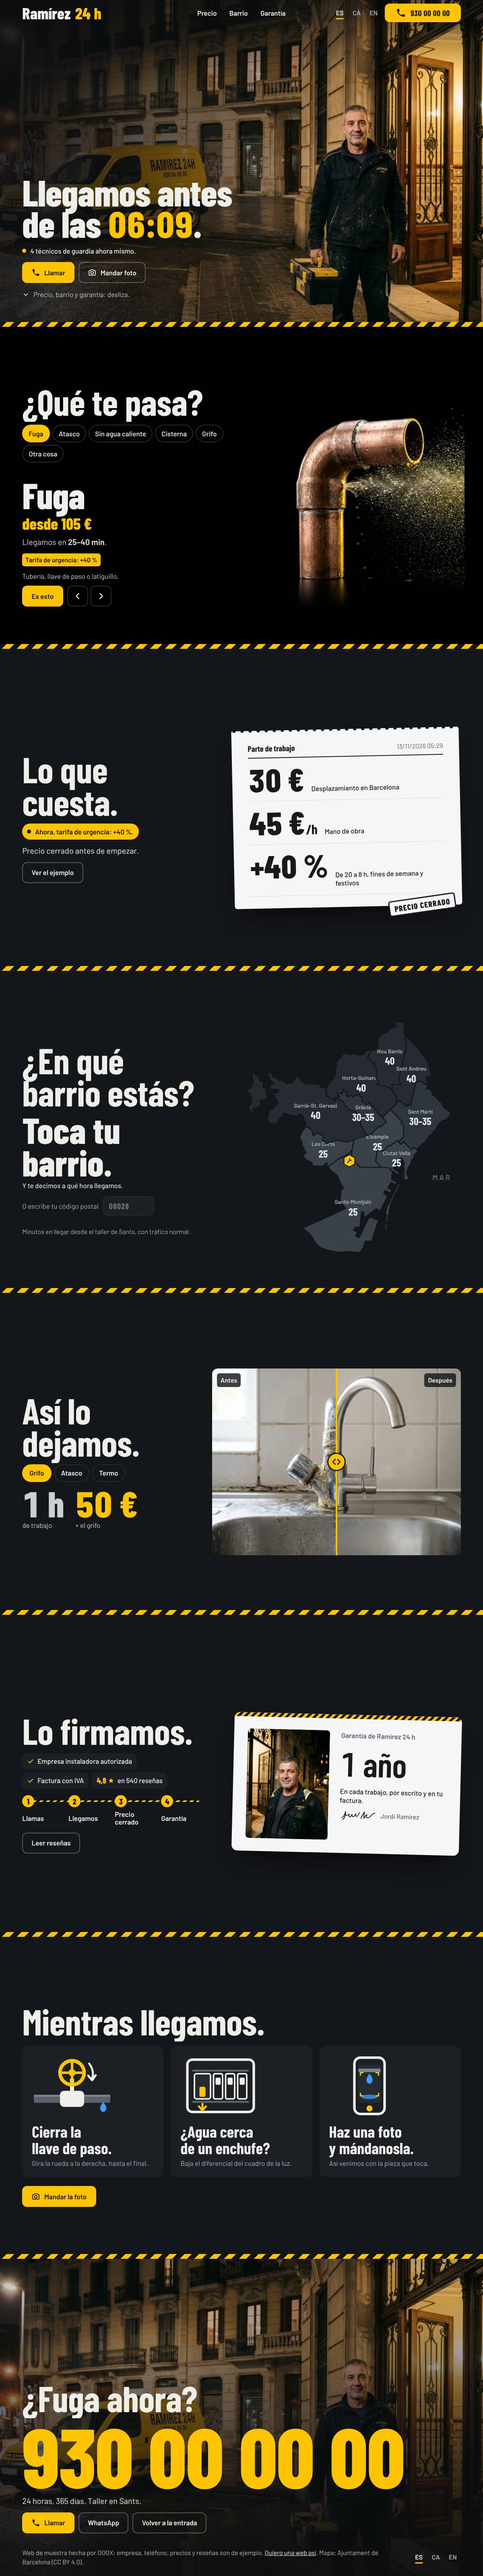
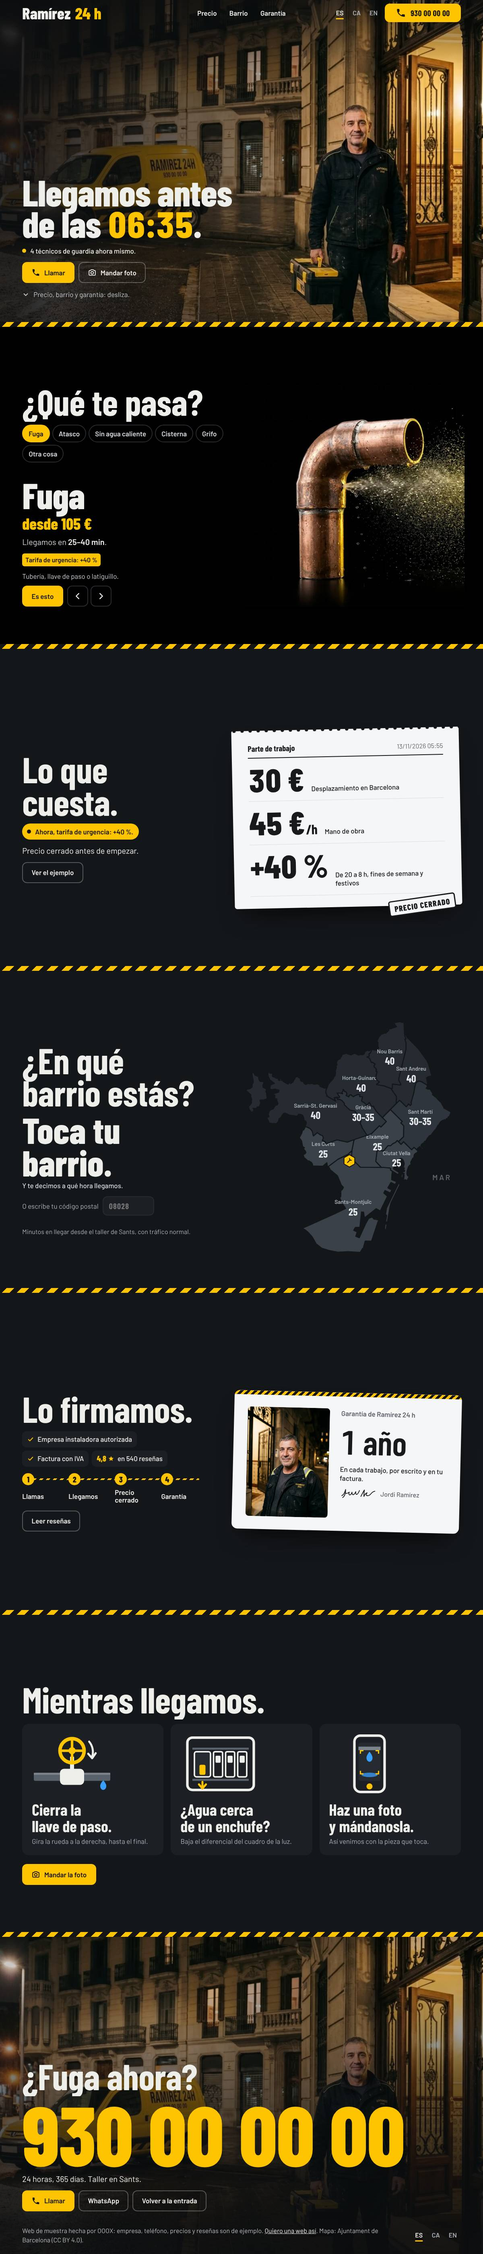
Ramírez 24 h: fuera la pantalla del antes y después
Un antes y después tan limpio no suele cumplirse en una avería real, así que
la pantalla «Así lo dejamos» sale de la demo (HTML, estilos, código,
traducciones e imágenes). Captura larga y ficha al día.

Claude-Session: https://claude.ai/code/session_01DChTJnCiCW4hs7btUNApc9

diff --git a/frontend/public/demos/ramirez-24h/index.html b/frontend/public/demos/ramirez-24h/index.html
@@ -219,31 +219,7 @@ html.snap{scroll-snap-type:y mandatory}
 @media (max-width:899px){.bag{grid-template-areas:"h" "m" "o";gap:10px}.bat{display:contents}.bat .h2{grid-area:h}.mapa-w{grid-area:m;width:min(86vw,40svh)}.bat-o{grid-area:o;display:grid;gap:10px}.leyenda{display:none}}
 @media (min-width:900px){.bag{grid-template-columns:minmax(0,.85fr) minmax(0,1fr);gap:5vw}.bat-o{display:grid;gap:14px}}
 
-/* ===== 4 · así lo dejamos: antes y después ===== */
-.trg{display:grid;grid-template-columns:minmax(0,1fr);gap:16px;align-items:center}
-.trt{display:grid;gap:14px;justify-items:start}
-.tabs{display:flex;gap:6px;flex-wrap:wrap}
-.tabs button{min-height:44px;padding:0 16px;border-radius:999px;border:2px solid var(--asfalto-3);font-weight:600;transition:border-color var(--t-ui) var(--ease-out),background-color var(--t-ui) var(--ease-out),color var(--t-ui) var(--ease-out)}
-.tabs button[aria-pressed="true"]{background:var(--senal);border-color:var(--senal);color:var(--negro)}
-.trfacts{display:flex;gap:28px;align-items:flex-end}
-.trfacts div{display:grid;gap:4px}
-.trfacts .fig{font-size:var(--s-h2)}
-.trfacts span{font-size:var(--s-body);color:#c9ced3}
-.trfacts div:last-child .fig{color:var(--senal)}
-.cmp{--pos:50%;position:relative;width:100%;aspect-ratio:4/3;border-radius:14px;overflow:hidden;touch-action:pan-y;-webkit-user-select:none;user-select:none;cursor:ew-resize;background:var(--asfalto-2)}
-.cmp img{position:absolute;inset:0;width:100%;height:100%;object-fit:cover;-webkit-user-drag:none}
-.cmp .ca{position:absolute;inset:0;clip-path:inset(0 0 0 var(--pos))}
-.cmp .cl{position:absolute;top:0;bottom:0;left:var(--pos);width:4px;margin-left:-2px;background:var(--senal);pointer-events:none}
-.cmp .cl i{position:absolute;top:50%;left:50%;width:46px;height:46px;margin:-23px 0 0 -23px;border-radius:50%;background:var(--senal);display:grid;place-items:center;border:3px solid var(--negro)}
-.cmp .cl svg{width:24px;height:24px;color:var(--negro)}
-.cmp .tag{position:absolute;top:12px;padding:5px 9px;border-radius:6px;background:rgba(20,23,26,.82);font-size:var(--s-small);font-weight:600;pointer-events:none}
-.cmp .tag.a{left:12px}.cmp .tag.b{right:12px}
-.cmp input{position:absolute;inset:0;width:100%;height:100%;opacity:0;margin:0;pointer-events:none}
-.cmp:has(input:focus-visible){outline:3px solid var(--senal);outline-offset:3px}
-@media (min-width:900px){.trg{grid-template-columns:minmax(0,.8fr) minmax(0,1.2fr);gap:5vw}}
-@media (max-width:899px){.cmp{max-height:36svh;aspect-ratio:auto;height:min(75vw,36svh)}}
-
-/* ===== 5 · de fiar: la tarjeta de garantía ===== */
+/* ===== 4 · de fiar: la tarjeta de garantía ===== */
 .gag{display:grid;grid-template-columns:minmax(0,1fr);gap:20px;align-items:center}
 .gat{display:grid;gap:16px;justify-items:start}
 .gcard{position:relative;justify-self:center;display:grid;grid-template-columns:auto minmax(0,1fr);gap:16px;width:100%;max-width:560px;padding:26px 20px 20px;border-radius:14px;background:var(--papel);color:var(--tinta);overflow:hidden;box-shadow:0 34px 60px -26px rgba(0,0,0,.8);transform:rotate(1.4deg)} /* taste-skill-ignore: sombra de una tarjeta sobre el asfalto */
@@ -268,7 +244,7 @@ html.snap{scroll-snap-type:y mandatory}
 @media (max-width:899px){.gag{grid-template-areas:"h" "c" "p" "s" "b";gap:14px}.gat{display:contents}.gat .h2{grid-area:h}.gcard{grid-area:c}.prueba{grid-area:p}.pasos{grid-area:s}#verRes{grid-area:b;justify-self:start}}
 @media (max-height:700px) and (max-width:899px){.prueba li:nth-child(2){display:none}.gat .h2{font-size:2.4rem}}
 
-/* ===== 6 · mientras llegamos: tres dibujos ===== */
+/* ===== 5 · mientras llegamos: tres dibujos ===== */
 .mig{display:grid;gap:22px}
 .mis{display:grid;grid-template-columns:minmax(0,1fr);gap:12px}
 .mis li{display:grid;grid-template-columns:112px minmax(0,1fr);align-items:center;gap:16px;padding:12px;border-radius:16px;background:var(--asfalto-2)}
@@ -459,25 +435,6 @@ html.snap{scroll-snap-type:y mandatory}
     </div>
   </section>
 
-  <section class="sx" id="trabajos" aria-labelledby="trT">
-    <div class="in trg">
-      <div class="trt">
-        <h2 class="h2" id="trT" data-t="tr.t">Así lo dejamos.</h2>
-        <div class="tabs" id="tabs" role="group" aria-label="Trabajos" data-ta="aria-label:a.trabajos">
-          <button data-tr="grifo" aria-pressed="true" data-t="tr.grifo">Grifo</button><button data-tr="atasco" aria-pressed="false" data-t="tr.atasco">Atasco</button><button data-tr="termo" aria-pressed="false" data-t="tr.termo">Termo</button>
-        </div>
-        <div class="trfacts"><div><span class="fig" id="trH">1 h</span><span data-t="tr.trabajo">de trabajo</span></div><div><span class="fig" id="trP">50 €</span><span id="trPs">+ el grifo</span></div></div>
-      </div>
-      <div class="cmp" id="cmp">
-        <img id="trA" src="assets/img/tr-grifo-antes.webp" srcset="assets/img/tr-grifo-antes-s.webp 720w,assets/img/tr-grifo-antes.webp 1200w" sizes="(min-width:900px) 52vw,92vw" alt="Antes: un grifo viejo y oxidado" width="1200" height="896">
-        <div class="ca"><img id="trD" src="assets/img/tr-grifo-despues.webp" srcset="assets/img/tr-grifo-despues-s.webp 720w,assets/img/tr-grifo-despues.webp 1200w" sizes="(min-width:900px) 52vw,92vw" alt="Después: el grifo nuevo, monomando" width="1200" height="896"></div>
-        <span class="tag a" data-t="tr.antes">Antes</span><span class="tag b" data-t="tr.despues">Después</span>
-        <div class="cl"><i><svg viewBox="0 0 24 24" fill="none" stroke="currentColor" stroke-width="2.6" stroke-linecap="round" stroke-linejoin="round" aria-hidden="true"><path d="M9 6l-6 6 6 6M15 6l6 6-6 6"/></svg></i></div>
-        <input type="range" id="cmpR" min="0" max="100" value="50" aria-label="Arrastra para comparar antes y después" data-ta="aria-label:a.cmp">
-      </div>
-    </div>
-  </section>
-
   <section class="sx" id="garantia" aria-labelledby="gaT">
     <div class="in gag">
       <div class="gat">
@@ -615,7 +572,7 @@ html.snap{scroll-snap-type:y mandatory}
 <script type="application/json" id="i18n">
 {
  "ca":{
-  "a.home":"Ramírez 24 h: tornar a l’entrada","a.nav":"Seccions","a.lang":"Idioma","a.menu":"Obrir el menú","a.menuT":"Menú","a.track":"Entrada: la furgoneta arriba al teu portal","a.averias":"Avaries","a.prev":"Avaria anterior","a.next":"Avaria següent","a.trabajos":"Feines","a.cmp":"Arrossega per comparar abans i després","a.bar":"Trucar o escriure","a.cerrar":"Tancar","a.s5":"5 de 5","a.s4":"4 de 5","a.mapa":"Mapa dels districtes de Barcelona",
+  "a.home":"Ramírez 24 h: tornar a l’entrada","a.nav":"Seccions","a.lang":"Idioma","a.menu":"Obrir el menú","a.menuT":"Menú","a.track":"Entrada: la furgoneta arriba al teu portal","a.averias":"Avaries","a.prev":"Avaria anterior","a.next":"Avaria següent","a.bar":"Trucar o escriure","a.cerrar":"Tancar","a.s5":"5 de 5","a.s4":"4 de 5","a.mapa":"Mapa dels districtes de Barcelona",
   "nav.precio":"Preu","nav.barrio":"Barri","nav.garantia":"Garantia","nav.averias":"Avaries",
   "b.llamar":"Trucar","b.foto":"Enviar foto","bar.llamar":"Trucar ara","bar.foto":"Foto",
   "in.t":"Lampistes 24 hores.","in.l":"Fuites, embussos i avaries a Barcelona. Arribem en 25–40 minuts.","in.h":"Llisca i mira a quina hora arribem.",
@@ -627,9 +584,6 @@ html.snap{scroll-snap-type:y mandatory}
   "p.t":"Part de treball","p.r1":"Desplaçament a Barcelona","p.r2":"Mà d’obra","p.r3":"De 20 a 8 h, caps de setmana i festius","p.sello":"Preu tancat",
   "ej.t":"Una fuita d’1 h 30 min, un dimarts","ej.r1":"Desplaçament","ej.r2":"Mà d’obra, 1 h 30 min","ej.tot":"Total","ej.dom":"La mateixa feina un diumenge: {p}.",
   "ba.t":"A quin barri ets?","ba.toca":"Toca el teu barri.","ba.toca2":"I et diem a quina hora arribem.","ba.r":"{b}: <b>{m}</b>.","ba.eta":"Si truques ara, arribem abans de les {t}.","ba.cp":"O escriu el teu codi postal","ba.no":"Aquest codi no és de Barcelona. Truca’ns: també anem a L’Hospitalet, Esplugues i Sant Adrià.","ba.ley":"Minuts per arribar des del taller de Sants, amb trànsit normal.","ba.taller":"Taller","ba.mar":"MAR",
-  "tr.t":"Així ho deixem.","tr.grifo":"Aixeta","tr.atasco":"Embús","tr.termo":"Termo","tr.trabajo":"de feina","tr.antes":"Abans","tr.despues":"Després",
-  "tr.grifo.p":"+ l’aixeta","tr.atasco.p":"preu tancat","tr.termo.p":"amb termo nou de 80 l",
-  "tr.grifo.a":"Abans: una aixeta vella i rovellada","tr.grifo.d":"Després: l’aixeta nova, monocomandament","tr.atasco.a":"Abans: un lavabo embussat, ple d’aigua","tr.atasco.d":"Després: el lavabo net i desembussat","tr.termo.a":"Abans: un termo vell i rovellat","tr.termo.d":"Després: un termo nou amb la instal·lació nova",
   "ga.t":"Ho signem.","ga.d1":"Empresa instal·ladora autoritzada","ga.d2":"Factura amb IVA","ga.d3":"en 540 ressenyes","ga.p1":"Truques","ga.p2":"Arribem","ga.p3":"Preu tancat","ga.p4":"Garantia","ga.res":"Llegir ressenyes",
   "ga.k":"Garantia de Ramírez 24 h","ga.big":"1 any","ga.s":"A cada feina, per escrit i a la teva factura.","ga.firma":"Jordi Ramírez","ga.alt":"Jordi Ramírez, el fundador, a la porta d’un portal",
   "mi.t":"Mentre arribem.","mi.1":"Tanca la clau de pas.","mi.1s":"Gira la roda cap a la dreta, fins al final.","mi.2":"Aigua a prop d’un endoll?","mi.2s":"Abaixa el diferencial del quadre de la llum.","mi.3":"Fes una foto i envia-la’ns.","mi.3s":"Així venim amb la peça que toca.","mi.btn":"Enviar la foto",
@@ -642,7 +596,7 @@ html.snap{scroll-snap-type:y mandatory}
   "min":"min"
  },
  "en":{
-  "a.home":"Ramírez 24 h: back to the start","a.nav":"Sections","a.lang":"Language","a.menu":"Open the menu","a.menuT":"Menu","a.track":"Intro: the van pulls up at your door","a.averias":"Problems","a.prev":"Previous problem","a.next":"Next problem","a.trabajos":"Jobs","a.cmp":"Drag to compare before and after","a.bar":"Call or message","a.cerrar":"Close","a.s5":"5 out of 5","a.s4":"4 out of 5","a.mapa":"Map of Barcelona’s districts",
+  "a.home":"Ramírez 24 h: back to the start","a.nav":"Sections","a.lang":"Language","a.menu":"Open the menu","a.menuT":"Menu","a.track":"Intro: the van pulls up at your door","a.averias":"Problems","a.prev":"Previous problem","a.next":"Next problem","a.bar":"Call or message","a.cerrar":"Close","a.s5":"5 out of 5","a.s4":"4 out of 5","a.mapa":"Map of Barcelona’s districts",
   "nav.precio":"Prices","nav.barrio":"Area","nav.garantia":"Guarantee","nav.averias":"Problems",
   "b.llamar":"Call","b.foto":"Send a photo","bar.llamar":"Call now","bar.foto":"Photo",
   "in.t":"24-hour plumbers.","in.l":"Leaks, blockages and breakdowns in Barcelona. We get there in 25–40 minutes.","in.h":"Swipe and see when we’ll arrive.",
@@ -654,9 +608,6 @@ html.snap{scroll-snap-type:y mandatory}
   "p.t":"Job sheet","p.r1":"Call-out within Barcelona","p.r2":"Labour","p.r3":"8 pm to 8 am, weekends and public holidays","p.sello":"Fixed price",
   "ej.t":"A 1 h 30 min leak, on a Tuesday","ej.r1":"Call-out","ej.r2":"Labour, 1 h 30 min","ej.tot":"Total","ej.dom":"The same job on a Sunday: {p}.",
   "ba.t":"Which area are you in?","ba.toca":"Tap your area.","ba.toca2":"We’ll tell you when we’ll arrive.","ba.r":"{b}: <b>{m}</b>.","ba.eta":"Call now and we’ll be there by {t}.","ba.cp":"Or type your postcode","ba.no":"That postcode isn’t in Barcelona. Call us: we also cover L’Hospitalet, Esplugues and Sant Adrià.","ba.ley":"Minutes to reach you from our Sants workshop, in normal traffic.","ba.taller":"Workshop","ba.mar":"SEA",
-  "tr.t":"How we leave it.","tr.grifo":"Tap","tr.atasco":"Blockage","tr.termo":"Water heater","tr.trabajo":"of work","tr.antes":"Before","tr.despues":"After",
-  "tr.grifo.p":"+ the tap","tr.atasco.p":"fixed price","tr.termo.p":"with a new 80 l heater",
-  "tr.grifo.a":"Before: an old, rusty tap","tr.grifo.d":"After: the new mixer tap","tr.atasco.a":"Before: a blocked basin full of water","tr.atasco.d":"After: the basin clean and draining","tr.termo.a":"Before: an old, rusty water heater","tr.termo.d":"After: a new water heater with new pipework",
   "ga.t":"We put it in writing.","ga.d1":"Licensed plumbing company","ga.d2":"VAT invoice","ga.d3":"from 540 reviews","ga.p1":"You call","ga.p2":"We arrive","ga.p3":"Fixed price","ga.p4":"Guarantee","ga.res":"Read reviews",
   "ga.k":"Ramírez 24 h guarantee","ga.big":"1 year","ga.s":"On every job, in writing, on your invoice.","ga.firma":"Jordi Ramírez","ga.alt":"Jordi Ramírez, the founder, at the door of an apartment building",
   "mi.t":"Until we get there.","mi.1":"Turn off the stopcock.","mi.1s":"Turn the wheel clockwise, all the way.","mi.2":"Water near a socket?","mi.2s":"Switch off the main breaker in the fuse box.","mi.3":"Take a photo and send it.","mi.3s":"So we bring the right part.","mi.btn":"Send the photo",
@@ -674,8 +625,6 @@ html.snap{scroll-snap-type:y mandatory}
   "av.fuga.l":"Tubería, llave de paso o latiguillo.","av.atasco.l":"Fregadero, váter, ducha o bajante.","av.termo.l":"Termo eléctrico o calentador.","av.cisterna.l":"No para de correr el agua o no carga.","av.grifo.l":"Gotea, pierde o hay que cambiarlo.","av.otra.l":"Cuéntanoslo y te damos el precio al momento.",
   "cu.n":"Ahora, tarifa normal.","cu.u":"Ahora, tarifa de urgencia: +40 %.","cu.ej2":"Ocultar el ejemplo","ej.dom":"El mismo trabajo un domingo: {p}.",
   "ba.toca":"Toca tu barrio.","ba.toca2":"Y te decimos a qué hora llegamos.","ba.r":"{b}: <b>{m}</b>.","ba.eta":"Si llamas ahora, llegamos antes de las {t}.","ba.no":"Ese código no es de Barcelona. Llámanos: también vamos a L’Hospitalet, Esplugues y Sant Adrià.","ba.taller":"Taller","ba.mar":"MAR","a.mapa":"Mapa de los distritos de Barcelona",
-  "tr.grifo.p":"+ el grifo","tr.atasco.p":"precio cerrado","tr.termo.p":"con termo nuevo de 80 l",
-  "tr.grifo.a":"Antes: un grifo viejo y oxidado","tr.grifo.d":"Después: el grifo nuevo, monomando","tr.atasco.a":"Antes: un lavabo atascado, lleno de agua","tr.atasco.d":"Después: el lavabo limpio y desatascado","tr.termo.a":"Antes: un termo viejo y oxidado","tr.termo.d":"Después: un termo nuevo con la instalación nueva",
   "mi.1":"Cierra la llave de paso.","mi.1s":"Gira la rueda a la derecha, hasta el final.","mi.2":"¿Agua cerca de un enchufe?","mi.2s":"Baja el diferencial del cuadro de la luz.","mi.3":"Haz una foto y mándanosla.","mi.3s":"Así venimos con la pieza que toca.",
   "d.alt.n":"De noche, en fin de semana o festivo: {p}.","d.alt.u":"En horario normal, de lunes a viernes de 8 a 20 h: {p}.","d.t":"{a}, ahora.","d.n":"Tarifa normal.","d.u":"Tarifa de urgencia: +40 % en desplazamiento y mano de obra.",
   "wa.full":"{a} en {b}, ahora. Os mando foto.","wa.av":"{a}, ahora. Os mando foto.","wa.b":"Avería en {b}, ahora. Os mando foto.","wa.none":"Tengo una avería, ahora. Os mando foto.",
@@ -756,7 +705,7 @@ const CP={'08001':'cve','08002':'cve','08003':'cve','08039':'cve','08007':'eix',
 const minTxt=b=>b==='b'?'30–35 min':BANDA[b]+' min';
 
 /* ===== estado: la avería y el barrio que has tocado ===== */
-const S={av:AV.some(a=>a.id===store.get('av'))?store.get('av'):'fuga',d:DIS[store.get('d')]?store.get('d'):null,tr:'grifo',av0:!!store.get('av')};
+const S={av:AV.some(a=>a.id===store.get('av'))?store.get('av'):'fuga',d:DIS[store.get('d')]?store.get('d'):null,av0:!!store.get('av')};
 const etaMin=()=>S.d?BANDA[DIS[S.d][1]]:40;
 
 /* ===== WhatsApp y llamada: en la demo, una vista previa en vez de un número inventado ===== */
@@ -826,22 +775,6 @@ $('#mapaW').addEventListener('click',e=>{const g=e.target.closest('.d');if(g)eli
 $('#mapaW').addEventListener('keydown',e=>{const g=e.target.closest('.d');if(g&&(e.key==='Enter'||e.key===' ')){e.preventDefault();elige(g.dataset.id)}});
 $('#cp').addEventListener('input',()=>{const i=$('#cp'),v=i.value.replace(/\D/g,'').slice(0,5);if(i.value!==v)i.value=v;
  if(v.length<5){$('#cpMsg').textContent='';return}const id=CP[v];if(id){elige(id,'cp');$('#cpMsg').textContent='';i.blur()}else $('#cpMsg').textContent=t('ba.no')});
-/* --- así lo dejamos --- */
-const TR={grifo:{h:'1 h',p:50},atasco:{h:'40 min',p:65},termo:{h:'2 h',p:390}};
-function pintaTr(){const k=S.tr,d=TR[k];$$('#tabs button').forEach(b=>b.setAttribute('aria-pressed',String(b.dataset.tr===k)));
- $('#trH').textContent=d.h;$('#trP').textContent=eur(d.p);$('#trPs').textContent=t('tr.'+k+'.p');
- const a=$('#trA'),b=$('#trD');if(a.dataset.k!==k){a.dataset.k=k;a.src=`assets/img/tr-${k}-antes.webp`;a.srcset=`assets/img/tr-${k}-antes-s.webp 720w,assets/img/tr-${k}-antes.webp 1200w`;b.src=`assets/img/tr-${k}-despues.webp`;b.srcset=`assets/img/tr-${k}-despues-s.webp 720w,assets/img/tr-${k}-despues.webp 1200w`}
- a.alt=t('tr.'+k+'.a');b.alt=t('tr.'+k+'.d')}
-$('#tabs').addEventListener('click',e=>{const b=e.target.closest('button');if(!b||b.dataset.tr===S.tr)return;S.tr=b.dataset.tr;pintaTr();setPos(50,true)});
-const cmp=$('#cmp'),cmpR=$('#cmpR');let pos=50;
-function setPos(v,anim){pos=Math.max(0,Math.min(100,v));cmpR.value=Math.round(pos);if(anim&&!RM)gsap.to(cmp,{'--pos':pos+'%',duration:.5,ease:'expo.out'});else cmp.style.setProperty('--pos',pos+'%')}
-cmpR.addEventListener('input',()=>setPos(+cmpR.value));
-{let drag=null;cmp.addEventListener('pointerdown',e=>{drag={x:e.clientX,y:e.clientY,on:e.pointerType==='mouse'};if(drag.on){cmp.setPointerCapture(e.pointerId);mueve(e)}});
- cmp.addEventListener('pointermove',e=>{if(!drag)return;if(!drag.on){const dx=Math.abs(e.clientX-drag.x),dy=Math.abs(e.clientY-drag.y);if(dx>8&&dx>dy){drag.on=true;cmp.setPointerCapture(e.pointerId)}else if(dy>8){drag=null;return}}if(drag.on)mueve(e)});
- const fin=()=>{drag=null};cmp.addEventListener('pointerup',fin);cmp.addEventListener('pointercancel',fin);
- function mueve(e){const r=cmp.getBoundingClientRect();setPos((e.clientX-r.left)/r.width*100)}}
-/* a la primera visita, la línea enseña que se mueve */
-let cmpHint=false;
 
 /* ===== entrada: el vídeo avanza con un gesto y se para en el portal ===== */
 const v=$('#v'),intro=$('#intro'),index=$('#index'),scrimB=$('#scrimB');let dur=5,target=0,cur=0,ready=false,auto=0,autoT=0,preTw=null;
@@ -877,7 +810,7 @@ function llega(){preTw=null;auto=0;v.pause();target=cur=1;scrollTo(0,tmax());gli
 function salir(){if(gliding||auto||scrollY<4)return;glide(0,1.5)}
 
 /* ===== pila: la pantalla que llega pasa por encima; la de atrás casi no se mueve, encoge y se oscurece ===== */
-const SECS=['averias','cuesta','barrio','trabajos','garantia','mientras','fin'];
+const SECS=['averias','cuesta','barrio','garantia','mientras','fin'];
 const topOf=el=>{let y=0;for(let e=el;e;e=e.offsetParent)y+=e.offsetTop;return y};
 let PILA=null,pY=-1,pH=0;
 function pila(){if(SHOT)return;if(!PILA){PILA=[$('.stage'),...SECS.map(id=>document.getElementById(id))];
@@ -934,7 +867,7 @@ function raya(){const a=curSec&&TL.querySelector(`a[data-go="${curSec}"]`);if(!a
  TIND.style.transform=`translateX(${a.offsetLeft}px) scaleX(${(a.offsetWidth/100).toFixed(3)})`;TIND.style.opacity='1'}
 addEventListener('resize',raya);langFns.push(raya);
 function spy(){let on=null,hd='track';SECS.forEach(id=>{const y=document.getElementById(id).getBoundingClientRect().top;if(y<innerHeight*.45)on=id;if(y<=34)hd=id});
- if(on!==curSec){curSec=on;$$('.tlinks a').forEach(a=>a.classList.toggle('on',a.dataset.go===on));raya();if(on==='trabajos'&&!cmpHint&&!RM){cmpHint=true;setTimeout(()=>{gsap.timeline().to(cmp,{'--pos':'34%',duration:.6,ease:'power3.inOut'}).to(cmp,{'--pos':'50%',duration:.7,ease:'expo.out'})},900)}}
+ if(on!==curSec){curSec=on;$$('.tlinks a').forEach(a=>a.classList.toggle('on',a.dataset.go===on));raya()}
  document.body.dataset.hdr=hd}
 
 /* ===== hojas ===== */
@@ -956,7 +889,7 @@ $$('.sheet').forEach(sh=>{let y0=null,dy=0;const sb=sh.querySelector('.sbody');
 /* ===== titulares por líneas y una entrada por pantalla ===== */
 const LN={};
 function partir(h){if(!h)return[];if(!h.querySelector('.ln'))h.innerHTML=h.innerHTML.split(/<br\s*\/?>/i).map(p=>`<span class="ln"><span>${p.trim()}</span></span>`).join('');return[...h.querySelectorAll('.ln>span')]}
-const HEADS=['#avT','#cuT','#baT','#trT','#gaT','#miT','#fiT'];
+const HEADS=['#avT','#cuT','#baT','#gaT','#miT','#fiT'];
 langFns.push(()=>HEADS.forEach(s=>{const ls=partir($(s));if(LN[s])gsap.set(ls,{yPercent:108})}));
 if(!RM&&'IntersectionObserver'in window){
  const lineas=(tl,sel,at)=>{LN[sel]=false;return tl.fromTo(partir($(sel)),{yPercent:108},{yPercent:0,duration:1,ease:'expo.out',stagger:.09},at||0)};
@@ -964,7 +897,6 @@ if(!RM&&'IntersectionObserver'in window){
   averias:{ln:'#avT',pre:['#avObj','#chips button'],run(){lineas(gsap.timeline(),'#avT').fromTo('#avObj',{x:80,opacity:0},{x:0,opacity:1,duration:.9,ease:'expo.out'},.1).fromTo('#chips button',{opacity:0,y:10},{opacity:1,y:0,duration:.4,ease:'power3.out',stagger:.04},.15)}},
   cuesta:{ln:'#cuT',pre:['#parte'],run(){lineas(gsap.timeline(),'#cuT').fromTo('#parte',{y:70,rotation:-5,opacity:0},{y:0,rotation:-1.2,opacity:1,duration:1,ease:'expo.out'},.1)}},
   barrio:{ln:'#baT',pre:['#mapa .d'],run(){lineas(gsap.timeline(),'#baT').fromTo('#mapa .d',{opacity:0},{opacity:1,duration:.5,ease:'power2.out',stagger:.05},.1)}},
-  trabajos:{ln:'#trT',pre:['#cmp'],run(){lineas(gsap.timeline(),'#trT').fromTo('#cmp',{y:50,opacity:0},{y:0,opacity:1,duration:.9,ease:'expo.out'},.1)}},
   garantia:{ln:'#gaT',pre:['#gcard'],run(){lineas(gsap.timeline(),'#gaT').fromTo('#gcard',{y:70,rotation:6,opacity:0},{y:0,rotation:1.4,opacity:1,duration:1,ease:'expo.out'},.1)}},
   mientras:{ln:'#miT',pre:['#mis li'],run(){lineas(gsap.timeline(),'#miT').fromTo('#mis li',{y:30,opacity:0},{y:0,opacity:1,duration:.7,ease:'expo.out',stagger:.09},.1)
    .fromTo('#mis .volante',{rotation:-270,transformOrigin:'50% 50%'},{rotation:0,transformOrigin:'50% 50%',duration:1.4,ease:'power3.inOut'},.35).fromTo('#mis .gotas',{opacity:1},{opacity:0,duration:.3},1.2)
@@ -979,7 +911,7 @@ else HEADS.forEach(s=>partir($(s)));
  v.addEventListener('loadedmetadata',()=>{v.currentTime=v.duration-.05},{once:true});scrollTo(0,tmax());target=cur=1;arrive();
  if(h!=='dentro')setTimeout(()=>{scrollTo(0,yOf(h));onScroll()},120)})();
 
-applyLang();langFns.push(pintaVivo,pintaTr);pintaVivo();pintaTr();
+applyLang();langFns.push(pintaVivo);pintaVivo();
 setInterval(pintaVivo,20000);document.addEventListener('visibilitychange',()=>{if(!document.hidden)pintaVivo()});
 if(SHOT){document.body.classList.add('ready');index.removeAttribute('aria-hidden');index.inert=false;document.body.dataset.hdr=SHOT_AT||'track';
  if(SHOT_AT&&SECS.includes(SHOT_AT)){$('#track').style.display='none';for(const id of SECS){if(id===SHOT_AT)break;document.getElementById(id).style.display='none'}}scrollTo(0,0)}

diff --git a/frontend/src/data/mock.js b/frontend/src/data/mock.js
@@ -463,7 +463,7 @@ export const projects = [
     accent: "#FFC400", accentSoft: "#101010",
     demo: true,
     description: "Proyecto demo · Web para un fontanero de urgencias en Barcelona: la furgoneta llega a tu portal y te dice a qué hora llegaría si llamas ahora. Una avería cada vez con su precio, el parte de trabajo, tu barrio en minutos y llamar siempre a mano.",
-    longDescription: "Este es un proyecto demo: la empresa no existe, pero todo funciona. Está hecha con el mismo motor que Molta y pensada para quien tiene agua en el suelo y el móvil en la mano: un gesto pasa una pantalla y llamar está siempre donde llega el pulgar. Con el primer gesto, la furgoneta amarilla cruza la calle y frena en tu portal; al pararse aparece, enorme y en vivo, la hora a la que llegaríamos si llamas ahora. Después, ocho pantallas de una idea cada una: qué te pasa (una avería cada vez, con su precio y el recargo de noche ya calculado), el parte de trabajo con las tres cifras, el mapa de distritos con los minutos hasta tu casa, un antes y después, la tarjeta de garantía firmada por Jordi Ramírez y qué hacer mientras llegamos. Todo se calcula solo con la hora de Barcelona y está en castellano, catalán e inglés.",
+    longDescription: "Este es un proyecto demo: la empresa no existe, pero todo funciona. Está hecha con el mismo motor que Molta y pensada para quien tiene agua en el suelo y el móvil en la mano: un gesto pasa una pantalla y llamar está siempre donde llega el pulgar. Con el primer gesto, la furgoneta amarilla cruza la calle y frena en tu portal; al pararse aparece, enorme y en vivo, la hora a la que llegaríamos si llamas ahora. Después vienen las pantallas, con una idea cada una: qué te pasa (una avería cada vez, con su precio y el recargo de noche ya calculado), el parte de trabajo con las tres cifras, el mapa de distritos con los minutos hasta tu casa, la tarjeta de garantía firmada por Jordi Ramírez y qué hacer mientras llegamos. Todo se calcula solo con la hora de Barcelona y está en castellano, catalán e inglés.",
     highlights: ["La hora de llegada en vivo, con la hora de Barcelona", "Una avería cada vez, con su precio y el recargo de noche ya calculado", "Mapa de distritos y código postal: minutos hasta tu casa", "Aviso por WhatsApp ya escrito: «Fuga en Les Corts, ahora»"],
     stack: ["HTML", "CSS", "JavaScript", "GSAP"], tags: ["Oficios", "Urgencias", "Vídeo"],
     metrics: [{ label: "Llegada", value: "< 45′" }, { label: "Servicio", value: "24 h" }, { label: "Garantía", value: "1 año" }],
